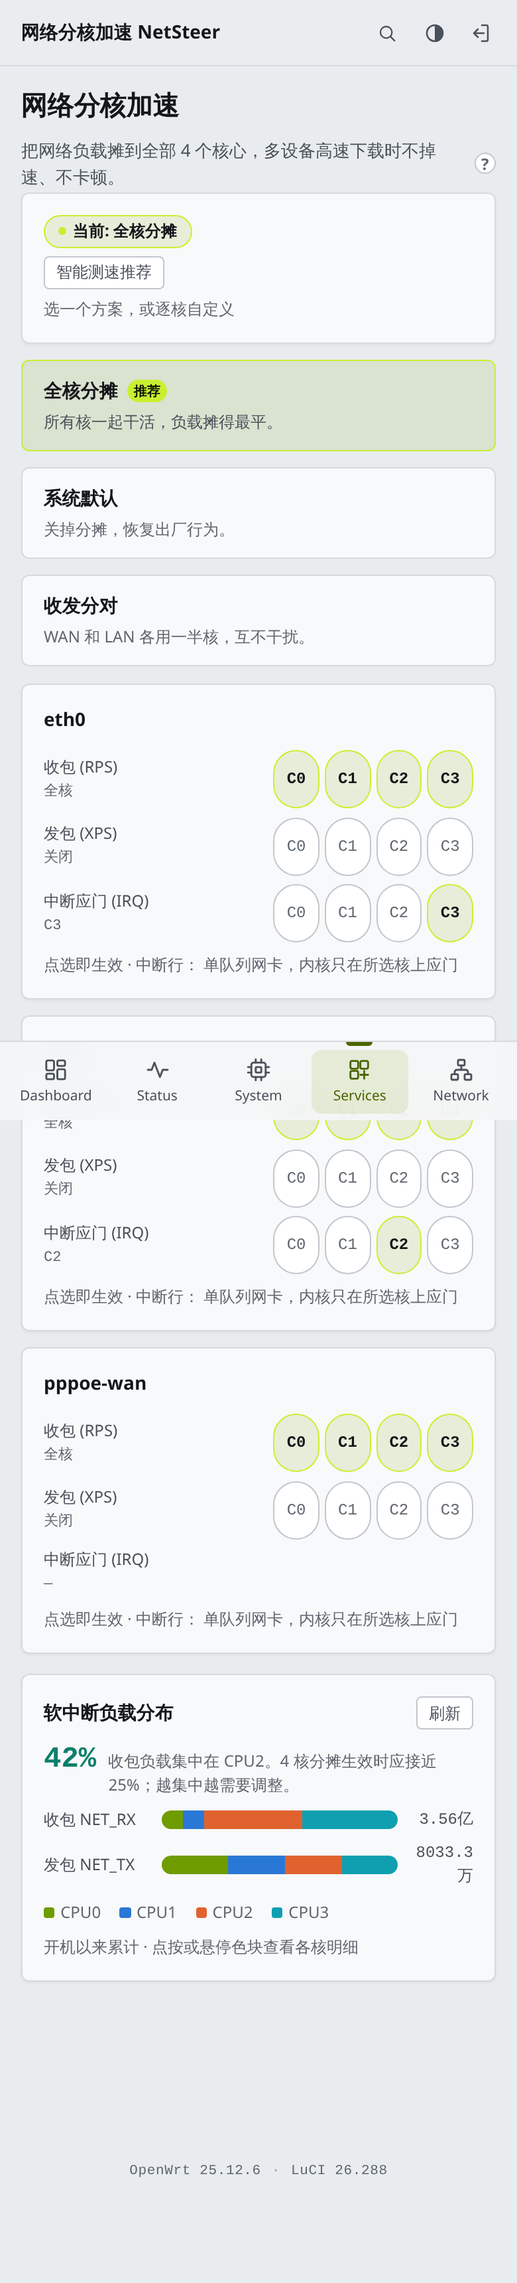
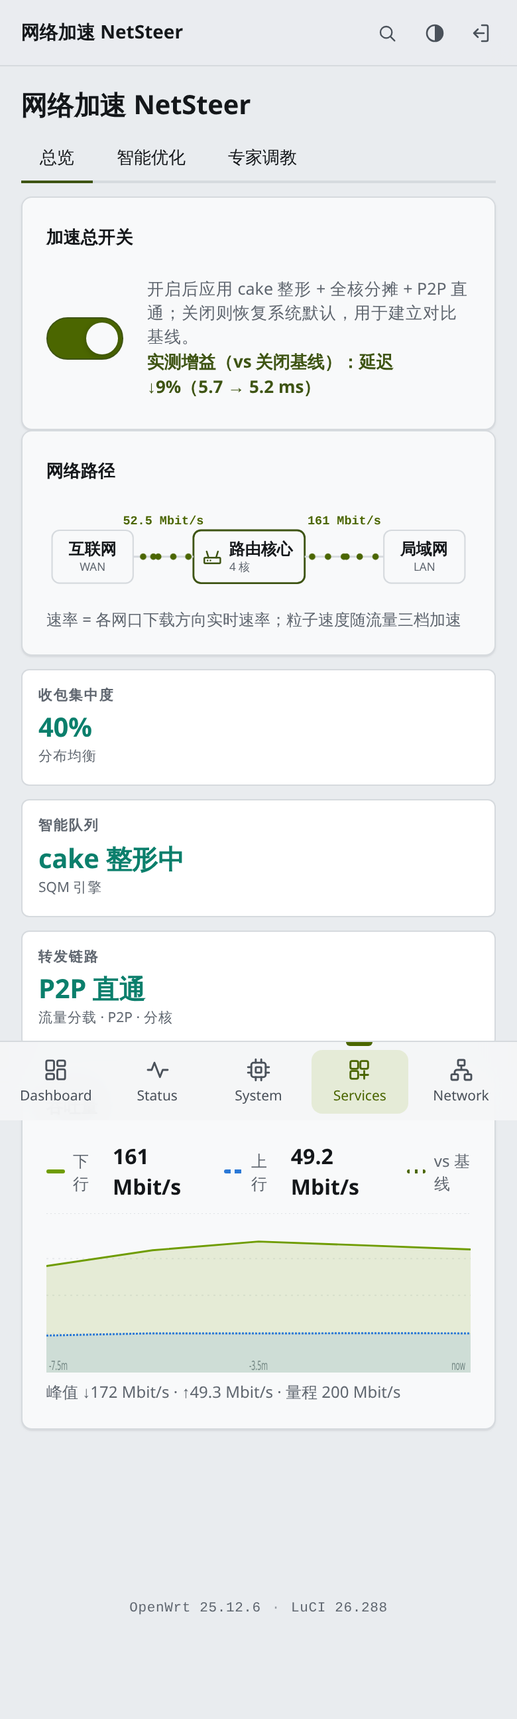
docs: README rewrite — integrated accelerator positioning (the cFosSpeed for OpenWrt)
- positioning: from "core-spreading only" to integrated acceleration suite
  (cake shaping + multi-core spreading + IRQ affinity + P2P passthrough + A/B gain)
- master-toggle A/B gain as headline feature with real measured numbers
- new v1.12.4 screenshots (overview/optimize/expert/mobile, live device capture)
- install section now points to Releases (was a dead dist/ link)
- how-it-works covers SQM/cake + bench measurement chain
- dev/testing numbers updated (138 unit / 69 e2e), release-notes section added
- old v1.6-era screenshots removed (benchmark data chart kept, labeled as such)

diff --git a/README.md b/README.md
@@ -1,67 +1,75 @@
-# NetSteer — network load steering for OpenWrt
+# NetSteer — The Integrated Network Accelerator for OpenWrt
 
 [English](README.md) | [简体中文](README.zh-CN.md)
 
 [![CI](https://github.com/pm-parker/netsteer/actions/workflows/ci.yml/badge.svg)](https://github.com/pm-parker/netsteer/actions/workflows/ci.yml) [![License: MIT](https://img.shields.io/badge/License-MIT-green.svg)](LICENSE)
 
-**Stop letting one CPU core do all the networking.** NetSteer is a LuCI app for OpenWrt 24.10+/25.12 that spreads network softirq and interrupt load across all CPU cores — with a live dashboard, one-click presets, and a built-in auto-benchmark that measures *your* router and recommends *your* best setting.
+**The cFosSpeed for OpenWrt: smart queue shaping, multi-core load spreading, IRQ affinity and P2P passthrough — integrated into one package with measured A/B gain comparison.**
 
-![benchmark](docs/images/benchmark-before-after.png)
+One master toggle, two worlds: off, it restores stock behavior and automatically benchmarks the baseline; on, cake shaping + all-core spreading + P2P passthrough take effect and the page shows the real measured gain versus that baseline — latency ↓9% (5.7 → 5.2 ms, an 8-second on-device measurement), not a marketing number.
 
-*Real measurement on a NanoPi R5C (4-core, single-queue GbE, OpenWrt 25.12): same 20-stream HTTPS download, +17% sustained RX throughput with NetSteer's preset, busiest-core share unchanged, idle cores now participating. Stock baseline measured twice for reproducibility (±1%). Results vary by hardware — that's exactly why the app benchmarks your device instead of guessing.*
+![overview](docs/images/screenshot-overview.png)
 
-## Why
+*Live on NanoPi R5C · OpenWrt 25.12.6 · LuCI 26.288. Master toggle on (P2P mode); wire-path particles speed up with real traffic across three tiers; the throughput chart carries a "vs baseline" gain reference line.*
 
-On most ARM routers the network stack runs on whatever core the NIC interrupt lands on. Under heavy WAN download that core saturates first: throughput sags, latency spikes, and the other cores sit idle. The kernel already has the answer — RPS/XPS (packet steering) and IRQ affinity — but tuning it by hand means reading sysfs documentation and hex masks.
+## What it solves
 
-NetSteer turns that into three buttons.
+Home-router network trouble is rarely single-dimensional: upstream congestion spikes game latency (needs queue shaping), bulk downloads saturate one core and tank throughput (needs multi-core spreading), P2P hole-punching fails (needs Fullcone-style passthrough) — and above all, "did any of this tuning actually help?" (needs measurable comparison).
 
-## What you get
+Each direction has standalone tools: SQM for shaping, hand-written sysfs for spreading, firewall rules for passthrough — but they don't talk to each other, and none ships a unified UI for normal users. NetSteer integrates all four into three pages: casual users read the overview dashboard, intermediate users run one-click audits and scenario modes, experts tune per-core — and every change at every level shows up live on the same dashboard.
+
+## Key features
 
 | | |
 |---|---|
-| **One-click presets** | `All-cores` (recommended), `Stock`, `RX/TX split` — applied instantly, persisted across reboots |
-| **Auto-benchmark** | Real-traffic sampling of each candidate preset, ~30 s, recommends the most even one — adopt it or keep your current setup. Your pre-test config is always restored automatically |
-| **Overview dashboard** | Network-path diagram with flow particles (speed follows live traffic), 3-card health strip (RX concentration / shaping / forwarding), live RX/TX throughput chart — see which segment is hurting at a glance |
-| **Live softirq view** | Per-core RX/TX softirq distribution with tap-to-inspect bars, busiest-core share at a glance |
-| **Per-core control** | Toggle RPS/XPS/IRQ per interface, per core — PPPoE virtual interfaces included |
-| **Guard daemon** | Background watcher that detects and *self-heals* any drift between config and live sysfs state, logging evidence to a persistent incident directory |
-| **Works on any device** | Core count, interfaces and IRQ numbers are detected at runtime — nothing is hardcoded for a specific board. First install auto-generates a sane default for *your* hardware |
-| **P2P passthrough** | One-click UDP full-port inbound DNAT for a chosen device (Fullcone-equivalent) — dramatically better P2P hole-punching. Native fw4 rules, visible in the LuCI firewall page, idempotently added/removed by the toggle |
+| **Master toggle + A/B gain** | Off auto-benchmarks the stock baseline (real ping latency + throughput sampling); on shows the measured gain percentage. Numbers come from the router itself — idle networks honestly report "parity" |
+| **Live dashboard** | Wire-path particle flow (speed = live traffic, 3 tiers), RX-concentration / smart-queue / forwarding health cards, up/down throughput curves + gain reference line |
+| **One-click audit** | Multi-dimensional checks (SQM / softirq concentration / forwarding / offloading) with conflict flags; missing deps get two-tier suggestions (no-install alternative or the exact install command) |
+| **Scenario modes** | Balanced / throughput / low-latency / core-steering / P2P — each a declarative action set (cake profile, RPS masks, IRQ policy), instant and reboot-persistent |
+| **P2P passthrough** | One-click UDP full-port inbound DNAT (Fullcone-equivalent) for any LAN device — big win for BT/PT/online-game NAT traversal; native fw4 rules, idempotent add/remove |
+| **Expert tuning** | Per-interface per-core RPS/XPS switches, visual IRQ affinity editor with before/after softirq delta measurement; PPPoE virtual interfaces included |
+| **Guardian** | Config-vs-runtime reconciliation every minute; drift auto-repaired and evidence persisted |
+| **Device-agnostic** | Cores, interfaces, IRQ numbers all runtime-probed, zero hardcoding; sensible defaults generated per hardware on first install; built-in benchmark measures *your* device and recommends the best plan |
 
 ## Screenshots
 
-Desktop dashboard | Auto-benchmark result
+Overview (master toggle + wire path + throughput) | Smart optimize (audit + modes)
 ---|---
-![desktop](docs/images/screenshot-desktop.png) | ![tune](docs/images/screenshot-tune.png)
+![overview](docs/images/screenshot-overview.png) | ![optimize](docs/images/screenshot-optimize.png)
 
-Built-in help popover | Mobile
+Expert tuning (per-core + IRQ affinity) | Mobile
 ---|---
-![popover](docs/images/screenshot-popover.png) | ![mobile](docs/images/screenshot-mobile.png)
+![expert](docs/images/screenshot-expert.png) | ![mobile](docs/images/screenshot-mobile.png)
 
-Mobile is a first-class target: 44px touch targets, tap equivalents for every hover interaction, single-column cards — matching the LuCI dashboard look.
+Mobile is a first-class citizen: 44px touch targets, tap equivalents for every hover interaction, single-column cards, light/dark theme auto-follow.
+
+### Measured benchmark (v1.6 era, core-spreading only)
+
+![benchmark](docs/images/benchmark-before-after.png)
+
+*NanoPi R5C (4 cores, single-queue GbE), same 20 parallel HTTPS downloads: +17% sustained RX throughput with the recommended plan, busiest-core share unchanged. Gains vary by hardware — that's exactly why the app benchmarks your device instead of promising fixed numbers.*
 
 ## Install
 
-### Option A — apk package (OpenWrt 24.10+/25.12)
+### Option A — Release package (recommended)
 
-Download `dist/luci-app-netsteer-1.11.0.apk` from this repo, copy it to the router, then:
+Grab the `.apk` matching your architecture from [Releases](https://github.com/pm-parker/netsteer/releases) (check `cat /etc/apk/arch` on the router), copy it over, then:
 
 ```sh
-apk add --allow-untrusted /tmp/luci-app-netsteer-1.11.0.apk
+apk add --allow-untrusted /tmp/luci-app-netsteer-*.apk
 ```
 
-The package enables the service at boot, clears the LuCI menu cache and reloads rpcd. On first open the page offers a guided setup.
+The package enables boot autostart, clears the LuCI menu cache and reloads rpcd. First open walks you through initial setup. Requires OpenWrt 24.10+/25.12 (apk package format).
 
-### Option B — manual install
+### Option B — Manual install
 
 ```sh
-scp -O files/usr/bin/netsteer-apply files/usr/bin/netsteer-check files/usr/bin/netsteer-detect root@ROUTER:/usr/bin/
-scp -O files/etc/init.d/netsteer root@ROUTER:/etc/init.d/
-scp -O files/www/luci-static/resources/view/netsteer.js root@ROUTER:/www/luci-static/resources/view/
-scp -O files/usr/share/luci/menu.d/luci-app-netsteer.json root@ROUTER:/usr/share/luci/menu.d/
-scp -O files/usr/share/rpcd/acl.d/luci-app-netsteer.json root@ROUTER:/usr/share/rpcd/acl.d/
-ssh root@ROUTER 'chmod +x /usr/bin/netsteer-* /etc/init.d/netsteer && /etc/init.d/netsteer enable && /etc/init.d/netsteer start && rm -f /tmp/luci-indexcache* && /etc/init.d/rpcd restart'
+scp -O files/usr/bin/netsteer-* root@ROUTER_IP:/usr/bin/
+scp -O files/etc/init.d/netsteer root@ROUTER_IP:/etc/init.d/
+scp -O files/www/luci-static/resources/view/netsteer.js root@ROUTER_IP:/www/luci-static/resources/view/
+scp -O files/usr/share/luci/menu.d/luci-app-netsteer.json root@ROUTER_IP:/usr/share/luci/menu.d/
+scp -O files/usr/share/rpcd/acl.d/luci-app-netsteer.json root@ROUTER_IP:/usr/share/rpcd/acl.d/
+ssh root@ROUTER_IP 'chmod +x /usr/bin/netsteer-* /etc/init.d/netsteer && /etc/init.d/netsteer enable && /etc/init.d/netsteer start && rm -f /tmp/luci-indexcache* && /etc/init.d/rpcd restart'
 ```
 
 Then open **Services → NetSteer** in LuCI.
@@ -70,31 +78,40 @@ Then open **Services → NetSteer** in LuCI.
 
 ```sh
 apk del luci-app-netsteer
-# /etc/config/netsteer is intentionally kept — delete it too if you want a clean slate
+# /etc/config/netsteer is kept (config survives upgrades); remove manually for a full wipe
 ```
 
 ## How it works
 
-- **RPS/XPS** (`/sys/class/net/*/queues/*/rps_cpus`, `xps_cpus`) — spreads packet processing across cores.
-- **IRQ affinity** (`/proc/irq/*/smp_affinity`) — pins NIC interrupts away from the busiest cores, staggered per interface.
-- **netsteer-apply** writes sysfs from UCI config, records the applied state, and runs idempotently at boot.
-- **netsteer-check** (cron, 1/min) reconciles live state vs config and auto-repairs drift, logging evidence to `/etc/netsteer/incidents/`.
-- **netsteer-detect** generates a first-boot default from the actual hardware (core count, physical interfaces, PPPoE) — no hardcoded board assumptions.
+NetSteer is an integration layer — it invents no new mechanisms, it drives existing kernel facilities, so behavior is predictable and fully reversible:
 
-Everything is reversible: the `Stock` preset restores kernel defaults.
+- **Queue shaping**: SQM/cake (`/etc/config/sqm`) for latency control under upstream congestion; scenario modes switch profiles, master toggle disables while keeping config
+- **RPS/XPS** (`/sys/class/net/*/queues/*/rps_cpus`, `xps_cpus`): spreads packet processing across cores — fixes single-core saturation on single-queue NICs
+- **IRQ affinity** (`/proc/irq/*/smp_affinity`): pins NIC interrupts to less busy cores, staggered across interfaces
+- **P2P passthrough**: fw4/nftables rules for UDP full-port DNAT (Fullcone-equivalent)
+- **Gain measurement**: `netsteer-bench` runs an 8-second window of real ping latency + per-interface throughput sampling, baselines persisted to uci; triggered automatically in the background on master-toggle switches and compared on the page
+- **netsteer-apply** declaratively writes sysfs from UCI config, records applied state, idempotent at boot
+- **netsteer-check** (cron, every minute) reconciles runtime vs config, auto-repairs drift and persists evidence to `/etc/netsteer/incidents/`
+
+Everything is reversible: the master toggle restores stock behavior; the `System default` preset restores kernel defaults.
 
 ## Honest limits
 
-- Single-queue NICs have a physical floor on how even the distribution can get — the auto-benchmark shows your device's real numbers instead of promising a fixed gain.
-- The benchmark drives real download traffic (~30 s); run it during normal usage for a representative sample.
-- Tested on NanoPi R5C (aarch64_generic, 4-core, OpenWrt 25.12.6). Any ARM/x86_64 device with standard sysfs should work; if yours doesn't, please open an issue with the output of `cat /sys/devices/system/cpu/online` and `ls /sys/class/net/`.
+- Gain percentages are measured on your box; idle networks show small deltas (honestly reported as "parity") — cake's payoff shows under upstream congestion
+- Single-queue NICs have a physical floor on spreading evenness — the built-in benchmark shows your device's real numbers, no fixed promises
+- The benchmark runs ~30s of real download traffic; run it during normal usage hours for representative samples
+- Tested on NanoPi R5C (aarch64_generic, 4 cores, OpenWrt 25.12.6). Any ARM/x86_64 device with standard sysfs should work; if yours doesn't, open an issue with `cat /sys/devices/system/cpu/online` and `ls /sys/class/net/` output
 
 ## Development & testing
 
-- `node tests/unit/core.test.js` — 34 assertions over the multi-core logic (runs in CI on every push)
-- `tests/e2e/e2e.py` — full browser pass against a live router (manual, see tests/README.md)
-- `scripts/build-apk.sh <version> <arch>` — reproduces the shipped .apk locally; CI builds 4 arches on every push and attaches them to GitHub Releases on tags
-- Hardware-in-the-loop checks (real-device install/uninstall round-trip, WAN A/B benchmark, reboot persistence) are documented in tests/README.md
+- `node tests/unit/core.test.js` — 138 pure-function assertions (multi-core logic / baseline parsing / plan scoring; runs in CI on every push)
+- `tests/e2e/e2e.py` — 69 full-page browser assertions against a real router (re-run on a clean uninstall/reinstall before every release)
+- `scripts/build-apk.sh <version> <arch>` — reproduce the official .apk locally; CI builds 4 architectures per push with per-package `apk verify`, and attaches them to the GitHub Release (with release notes) on tags
+- On-device procedures (install/reinstall cycles, A/B comparisons, reboot persistence) are documented in tests/README.md
+
+## Release notes
+
+Highlights / additions / fixes for every version live in [Releases](https://github.com/pm-parker/netsteer/releases) and the `release-notes/` directory in this repo.
 
 ## License
 

diff --git a/README.zh-CN.md b/README.zh-CN.md
@@ -1,62 +1,70 @@
-# NetSteer — OpenWrt 网络负载分核加速
+# NetSteer — OpenWrt 的整合网络加速方案
 
 [English](README.md) | [简体中文](README.zh-CN.md)
 
 [![CI](https://github.com/pm-parker/netsteer/actions/workflows/ci.yml/badge.svg)](https://github.com/pm-parker/netsteer/actions/workflows/ci.yml) [![License: MIT](https://img.shields.io/badge/License-MIT-green.svg)](LICENSE)
 
-**别让一个 CPU 核独自扛下所有网络流量。** NetSteer 是一个 OpenWrt 24.10+/25.12 的 LuCI 应用，把网络软中断与中断负载摊到全部 CPU 核——实时仪表盘、一键预设、内置自动压测（实测你的设备、推荐你的最优方案）。
+**OpenWrt 界的 cFosSpeed：把智能队列整形、多核负载分摊、中断亲和、P2P 直通整合成一个带实测增益对比的加速方案。**
 
-![benchmark](docs/images/benchmark-before-after-zh.png)
+一个总开关，两种世界：关闭时它是系统原生行为并自动测量基线；开启后 cake 整形 + 全核分摊 + P2P 直通全部生效，页面实时显示与基线对比的真实增益——延迟 ↓9%（5.7 → 5.2 ms，本机 8 秒实测），不是营销数字。
 
-*NanoPi R5C（4 核、单队列千兆、OpenWrt 25.12）实测：同样 20 路 HTTPS 下载，开启 NetSteer 推荐方案后持续收包吞吐 **+17%**，最忙核占比不升，闲置核开始参与。原生基线复测两次（±1%）。不同硬件收益不同——所以应用内置压测，测你的设备，而不是承诺固定数字。*
+![overview](docs/images/screenshot-overview.png)
 
-## 解决什么问题
+*NanoPi R5C · OpenWrt 25.12.6 · LuCI 26.288 实拍。总开关开着（P2P 模式），路径图粒子速度随实时流量三档变化，吞吐曲线含「vs 基线」增益参考线。*
 
-多数 ARM 路由器上，整个网络协议栈跑在网卡中断落到的那个核上。WAN 大流量下载时这个核最先饱和：吞吐掉速、延迟抖动，其他核闲着。内核早就有答案——RPS/XPS（包转向）与 IRQ 亲和——但手工调优要啃 sysfs 文档和十六进制掩码。
+## 它解决什么
 
-NetSteer 把它变成三个按钮。
+家用路由器的网络性能问题很少是单点的：上行拥塞时游戏延迟飙升（需要队列整形）、大流量下载时单核饱和掉速（需要多核分摊）、P2P 打洞失败（需要 Fullcone 型直通）、以及"调了半天到底有没有用"（需要可测量的对比）。
 
-## 功能
+市面上每个方向都有独立工具：SQM 管整形、sysfs 手工管分核、防火墙规则管直通——但它们互不通气，更没有一套面向普通用户的统一界面。NetSteer 把这四件事整合成三页 UI：小白看总览仪表盘，进阶用一键体检和场景模式，专业用户逐核调教——每一层的改动都实时反映在同一个仪表盘上。
+
+## 核心特性
 
 | | |
 |---|---|
-| **实时总览** | 网络路径粒子流图（流量越大动画越快）、收包集中度/整形/转发三格健康卡、上下行吞吐实时曲线 — 出问题一眼看到在哪一段 |
-| **一键预设** | `全核分摊`（推荐）、`系统默认`、`收发分对`——即时生效、重启保持 |
-| **智能测速** | 真实流量采样各候选方案（约 30 秒），推荐最均匀的一个；采纳或保持原状都行，测速前配置自动恢复 |
-| **实时仪表盘** | 每核收/发包软中断分布，点按色块看明细，最忙核占比一眼可见 |
-| **逐核控制** | 每个接口、每个核独立开关 RPS/XPS/IRQ，PPPoE 虚拟口同样支持 |
-| **守卫后台** | 每分钟对账配置与运行态，发现漂移自动修复并存证到持久目录 |
-| **跨设备通用** | 核数、接口、IRQ 号全部运行时探测，零硬编码；首装自动为你的硬件生成合理默认值 |
-| **P2P 直通** | 一键给指定设备开 UDP 全端口入站（Fullcone 等效），P2P 打洞成功率显著提升；fw4 原生规则，LuCI 防火墙页可见，随开关幂等增删 |
+| **加速总开关 + A/B 增益** | 关闭自动测系统基线（真实 ping 时延 + 吞吐采样），开启显示实测增益百分比；增益数字来自路由器本机测量，空载显示「持平」不美化 |
+| **实时仪表盘** | 网络路径粒子流图（速度=实时流量，三档）、收包集中度/智能队列/转发链路健康卡、上下行吞吐曲线 + 增益参考线 |
+| **一键体检** | SQM/软中断集中度/转发链路/offloading 多维检测，冲突项标注；依赖缺失时给两档方案（免安装替代 / 确切安装命令） |
+| **场景模式** | 均衡 / 吞吐优先 / 低延迟 / 分核调度 / P2P 直通一键切换，每档是声明式动作集（cake 档位、RPS 掩码、IRQ 策略），即时生效重启保持 |
+| **P2P 直通** | 给指定设备一键开 UDP 全端口入站（Fullcone 等效），BT/PT/联机游戏 NAT 穿透成功率显著提升；fw4 原生规则随开关幂等增删 |
+| **专家调教** | 每接口每核独立 RPS/XPS 开关、IRQ 亲和可视化编辑 + 设置前后软中断集中度 delta 实测对比；PPPoE 虚拟口同样支持 |
+| **守卫后台** | 每分钟对账配置与运行态，漂移自动修复并存证到持久目录 |
+| **跨设备通用** | 核数、接口、IRQ 号全部运行时探测零硬编码；首装按真实硬件生成默认配置；内置压测实测你的设备推荐最优方案 |
 
 ## 截图
 
-桌面仪表盘 | 智能测速结果
+总览（总开关 + 路径图 + 吞吐曲线） | 智能优化（体检 + 场景模式）
 ---|---
-![desktop](docs/images/screenshot-desktop.png) | ![tune](docs/images/screenshot-tune.png)
+![overview](docs/images/screenshot-overview.png) | ![optimize](docs/images/screenshot-optimize.png)
 
-内置帮助浮窗 | 移动端
+专家调教（分核 + IRQ 亲和） | 移动端
 ---|---
-![popover](docs/images/screenshot-popover.png) | ![mobile](docs/images/screenshot-mobile.png)
+![expert](docs/images/screenshot-expert.png) | ![mobile](docs/images/screenshot-mobile.png)
 
-移动端是一等公民：44px 触控热区、所有悬停交互都有点按等价物、单列卡片布局，与 LuCI 仪表盘风格一致。
+移动端是一等公民：44px 触控热区、悬停交互全都有点按等价物、单列卡片布局，深浅主题自动跟随。
+
+### 压测实测（v1.6 时代，分核单维度）
+
+![benchmark](docs/images/benchmark-before-after-zh.png)
+
+*NanoPi R5C（4 核、单队列千兆）同样 20 路 HTTPS 下载：开启推荐方案后持续收包吞吐 **+17%**，最忙核占比不升。不同硬件收益不同——所以应用内置压测，测你的设备，而不是承诺固定数字。*
 
 ## 安装
 
-### 方式 A — apk 安装包（OpenWrt 24.10+/25.12）
+### 方式 A — Release 安装包（推荐）
 
-从本仓库下载 `dist/luci-app-netsteer-1.11.0.apk`，拷到路由器后：
+到 [Releases](https://github.com/pm-parker/netsteer/releases) 下载匹配架构的 `.apk`（路由器上 `cat /etc/apk/arch` 查看），拷到路由器后：
 
 ```sh
-apk add --allow-untrusted /tmp/luci-app-netsteer-1.11.0.apk
+apk add --allow-untrusted /tmp/luci-app-netsteer-*.apk
 ```
 
-安装包会启用开机自启、清 LuCI 菜单缓存并重载 rpcd。首次打开页面会引导初始设置。
+安装包会启用开机自启、清 LuCI 菜单缓存并重载 rpcd。首次打开页面会引导初始设置。适用 OpenWrt 24.10+/25.12（apk 包格式）。
 
 ### 方式 B — 手动安装
 
 ```sh
-scp -O files/usr/bin/netsteer-apply files/usr/bin/netsteer-check files/usr/bin/netsteer-detect root@路由器IP:/usr/bin/
+scp -O files/usr/bin/netsteer-* root@路由器IP:/usr/bin/
 scp -O files/etc/init.d/netsteer root@路由器IP:/etc/init.d/
 scp -O files/www/luci-static/resources/view/netsteer.js root@路由器IP:/www/luci-static/resources/view/
 scp -O files/usr/share/luci/menu.d/luci-app-netsteer.json root@路由器IP:/usr/share/luci/menu.d/
@@ -64,7 +72,7 @@ scp -O files/usr/share/rpcd/acl.d/luci-app-netsteer.json root@路由器IP:/usr/s
 ssh root@路由器IP 'chmod +x /usr/bin/netsteer-* /etc/init.d/netsteer && /etc/init.d/netsteer enable && /etc/init.d/netsteer start && rm -f /tmp/luci-indexcache* && /etc/init.d/rpcd restart'
 ```
 
-然后在 LuCI 打开 **服务 → NetSteer**。
+然后在 LuCI 打开 **服务 → 网络加速 NetSteer**。
 
 ### 卸载
 
@@ -75,26 +83,35 @@ apk del luci-app-netsteer
 
 ## 原理
 
-- **RPS/XPS**（`/sys/class/net/*/queues/*/rps_cpus`、`xps_cpus`）——把包处理摊到多核。
-- **IRQ 亲和**（`/proc/irq/*/smp_affinity`）——网卡中断钉在较闲的核上，多接口错开。
-- **netsteer-apply** 从 UCI 配置写 sysfs，记录已应用状态，开机幂等执行。
-- **netsteer-check**（cron 每分钟）对账运行态与配置，自动修复漂移并存证到 `/etc/netsteer/incidents/`。
-- **netsteer-detect** 首启按真实硬件（核数、物理接口、PPPoE）生成默认配置——无任何板级硬编码。
+NetSteer 是整合层，不发明新机制——每一项都调内核既有能力，因此行为可预期、完全可逆：
 
-一切可逆：`系统默认` 预设恢复内核出厂行为。
+- **队列整形**：SQM/cake（`/etc/config/sqm`），上行拥塞时的延迟控制；场景模式切换档位，总开关关闭时停用但保留配置
+- **RPS/XPS**（`/sys/class/net/*/queues/*/rps_cpus`、`xps_cpus`）：把包处理摊到多核，解决单队列网卡单核饱和
+- **IRQ 亲和**（`/proc/irq/*/smp_affinity`）：网卡中断钉在较闲的核上，多接口错开
+- **P2P 直通**：fw4/nftables 规则做 UDP 全端口 DNAT（Fullcone 等效）
+- **增益测量**：`netsteer-bench` 8 秒窗口实测 ping 时延 + 网口吞吐采样，基线持久化到 uci；总开关切换时后台自动跑，页面对比显示
+- **netsteer-apply** 从 UCI 配置声明式写 sysfs，记录已应用状态，开机幂等执行
+- **netsteer-check**（cron 每分钟）对账运行态与配置，自动修复漂移并存证到 `/etc/netsteer/incidents/`
+
+一切可逆：总开关关闭即回系统默认，`系统默认` 预设恢复内核出厂行为。
 
 ## 诚实的边界
 
-- 单队列网卡的分摊均匀度有物理下限——自动压测给你看设备真实数字，不承诺固定收益。
-- 压测会跑约 30 秒真实下载流量；在正常使用时段跑，样本更有代表性。
-- 已在 NanoPi R5C（aarch64_generic、4 核、OpenWrt 25.12.6）实测。任何带标准 sysfs 的 ARM/x86_64 设备理论上可用；如果你的设备不行，请开 issue 附上 `cat /sys/devices/system/cpu/online` 与 `ls /sys/class/net/` 输出。
+- 增益百分比是本机实测，空载网络下差异小（如实显示「持平」）；cake 整形的收益在上行拥塞时才显著
+- 单队列网卡的分摊均匀度有物理下限——自动压测给你看设备真实数字，不承诺固定收益
+- 压测会跑约 30 秒真实下载流量；在正常使用时段跑，样本更有代表性
+- 已在 NanoPi R5C（aarch64_generic、4 核、OpenWrt 25.12.6）实测。任何带标准 sysfs 的 ARM/x86_64 设备理论上可用；如果你的设备不行，请开 issue 附上 `cat /sys/devices/system/cpu/online` 与 `ls /sys/class/net/` 输出
 
 ## 开发与测试
 
-- `node tests/unit/core.test.js` —— 34 项多核逻辑断言（每次 push 在 CI 自动跑）
-- `tests/e2e/e2e.py` —— 面向真实路由器的整页浏览器测试（手动跑，见 tests/README.md）
-- `scripts/build-apk.sh <版本> <arch>` —— 本地复现正式 .apk；CI 每次 push 自动构建 4 种架构，打 tag 时自动附到 GitHub Release
-- 真机环节（设备上装卸重装、WAN 下载 A/B 对比、重启持久化）记录在 tests/README.md
+- `node tests/unit/core.test.js` —— 138 项纯函数断言（多核逻辑/基线解析/方案评分，每次 push 在 CI 自动跑）
+- `tests/e2e/e2e.py` —— 面向真实路由器的整页浏览器测试 69 项（发版前净装卸后复跑）
+- `scripts/build-apk.sh <版本> <arch>` —— 本地复现正式 .apk；CI 每次 push 自动构建 4 种架构并逐包 `apk verify`，打 tag 时自动附到 GitHub Release（附版本说明）
+- 真机环节（装卸重装、A/B 对比、重启持久化）记录在 tests/README.md
+
+## 版本说明
+
+每个版本的特色/新增/修复见 [Releases](https://github.com/pm-parker/netsteer/releases) 与仓库 `release-notes/` 目录。
 
 ## 许可
 
